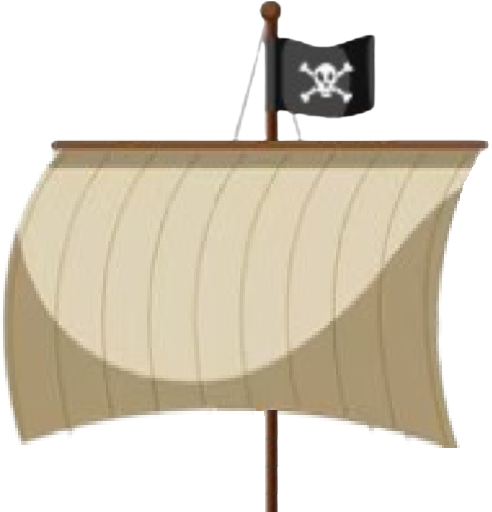
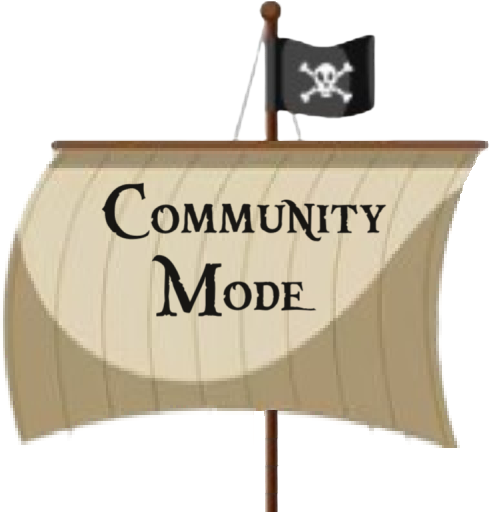
NTM

Changed region(s): [[0.2134, 0.3438, 0.7927, 0.4688], [0.3049, 0.5, 0.6402, 0.625]]

diff --git a/css/test.css b/css/test.css
@@ -19,56 +19,86 @@ body{
     display: none;
 }
 
-#voile2{
+#voile1, #voile2, #voile3, #voile4{
+    display: contents;
+
+}
+
+#voile2 img{ 
     display: none;
 }
 
-#voile1{
+#voile1 img{
     display: revert;
 }
 
-.tete:hover #voile1{
+.tete:hover #voile1 img{
     display: none;
 
 }
 
-.tete:hover #voile2{
+.tete:hover #voile2 img{
     display: revert;
 }
 
-#voile4{
+#voile4 img{
     display: none;
 }
-#voile3{
+#voile3 img{
     display: revert;
 }
 
-.tete2:hover #voile3{
+.tete2:hover #voile3 img{
     display: none;
 }
 
-.tete2:hover #voile4{
+.tete2:hover #voile4 img{
     display: revert;
 }
+
+
+
 
 .voile{
     display: flex;
+    margin-left: 15%;
+}
+
+.tete img{
+    width: 30%;
+    height: 30%;
+    margin-top: 8%;
+}
+
+.tete2 img{
+    width: 50%;
+    height: 80%;
     margin-left: 10%;
 }
 
-.voile img{
-    width: 65%;
-    height: auto;
+.voile a{
+    display: contents;
 }
 
+
+
+
 .tete{
-    margin-top: 6%;
+    display: contents;
 }
 
 .tete2{
-    margin-left: -15%;
-    margin-right: 15%;
+    display: contents;
 }
+
+
+
+
+
+
+
+
+
 
 #coque img{
     position: absolute;
@@ -93,25 +123,6 @@ body{
 
 .image-container img {
     display: block;
-}
-
-.overlay-text a{
-    position: absolute;
-    top: 45%;
-    left: 30%;
-    transform: translate(-50%, -50%);
-    color: black;
-    padding: 10px;
-    border-radius: 5px;
-    text-align: center;
-    font-size: 250%; /* Ajustez selon vos besoins */
-    font-family: 'Pirate', Arial, sans-serif;
-    text-decoration: none;
-}
-
-.overlay-text a:hover {
-    cursor: pointer;
-    color: red;
 }
 
 

diff --git a/css/global.css b/css/global.css
@@ -41,7 +41,6 @@ h2 {
     text-decoration: none;
     display:contents;
     overflow: hidden; /* Assure que l'image agrandie reste dans les limites du conteneur */
-    border: 10px solid white;
 }
 
 .container img {
@@ -49,7 +48,7 @@ h2 {
     transition: transform 0.3s ease; /* Ajoute une transition douce lorsqu'on survole l'image */
     display: block;
     margin: 0 auto;
-
+    margin-top: 5%;
 }
 
 .image:hover {

diff --git a/php/nav2.php b/php/nav2.php
@@ -1,0 +1,47 @@
+<!DOCTYPE html>
+<html lang="en">
+<head>
+<meta charset="UTF-8">
+<meta name="viewport" content="width=device-width, initial-scale=1.0">
+<title>NAVVEIL</title>
+<link rel="stylesheet" href="css/navfooter.css">
+</head>
+<body>
+<header>
+  <div class="nav-veil" onclick="toggleImages()">
+    <img src="img/neil-nav.png" alt="Image 1">
+  </div>
+  <div class="nav-veil2" onclick="toggleImages()" style="display:none;">
+    <img src="img/Design sans titre (5).png" alt="Image 2">
+  </div>
+</header>
+
+<script>
+        
+function toggleImages() {
+  var veil1 = document.querySelector('.nav-veil');
+  var veil2 = document.querySelector('.nav-veil2');
+
+  if (veil1.style.opacity === '0' || veil1.style.opacity === '') {
+    veil1.style.opacity = '1'; // Faire apparaître la première image
+    veil2.style.display = 'none'; // Cacher la deuxième image
+    veil1.style.zIndex = '9';
+    veil2.style.zIndex = '10';
+  } else {
+    veil1.style.opacity = '0'; // Faire disparaître la première image
+    veil2.style.opacity = '1';
+    veil2.style.display = 'block'; // Afficher la deuxième image
+    veil1.style.zIndex = '10';
+    veil2.style.zIndex = '9';
+  }
+}
+
+</script>
+
+
+</body>
+</html>
+
+
+
+

diff --git a/php/game.php b/php/game.php
@@ -14,10 +14,7 @@
                         <img src="../img/voilenav.png">
                     </figure>
                     <figure id="voile2" class="image-container">
-                        <img src="../img/voilePleine.png">
-                        <figcaption class="overlay-text">
-                            <a href="game.php">Mode <br>communautaire</a>
-                        </figcaption>
+                        <a href="game.php"><img src="../img/voilePleine.png"></a>
                     </figure>
                 </div>
                 <div>
@@ -26,10 +23,7 @@
                             <img src="../img/voilenav.png">
                         </figure>
                         <figure id="voile4" class="image-container">
-                            <img src="../img/voilePleine.png">
-                            <figcaption class="overlay-text">
-                                <a href="game.php">Mode <br>campagne</a>
-                            </figcaption>
+                            <a href="game.php"><img src="../img/voilePleine2.png"></a>
                         </figure>
                     </div>
                 </div>

diff --git a/index.php b/index.php
@@ -7,10 +7,13 @@
     <title class="titre">Lost Island</title>
 </head>
 <body>
+<?php
+    include("php/nav2.php")
+?>
     <h1>Lost Island</h1>
-        <a href="php/game.php"  class="container"> 
-            <img class="image" src="img/planches.png" alt="Image" style="width:30%">
-        </a>
+    <a href="php/game.php"  class="container"> 
+        <img class="image" src="img/planches.png" alt="Image" style="width:30%">
+    </a>
     <div class="sailor">
         <img src="img/captain2.gif" alt="Mr le Pirate">
     </div>
